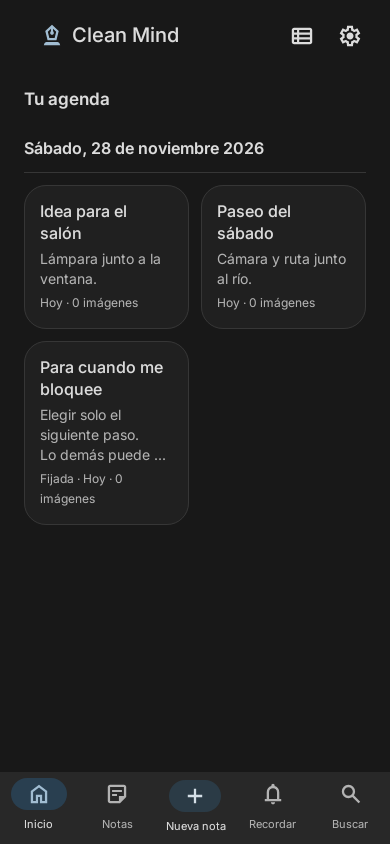
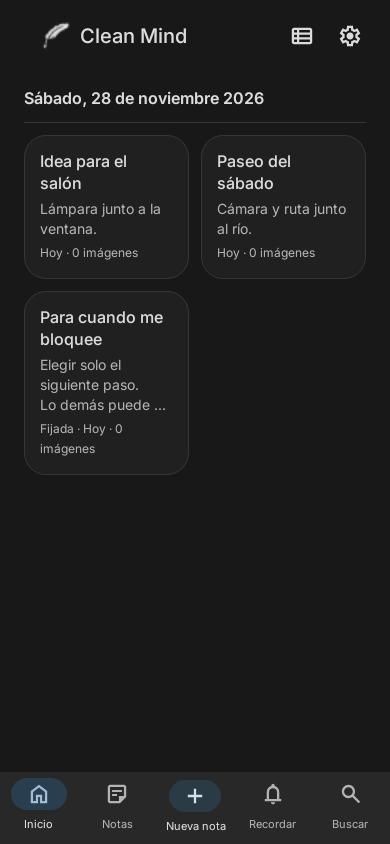
docs: document direct selection creation sheet and optimized release

Changed region(s): [[0.0615, 0.0924, 0.8615, 0.6161], [0.0923, 0.0308, 0.4923, 0.0616], [0.6462, 0.3389, 0.8, 0.3697]]

diff --git a/docs/guia-de-uso.md b/docs/guia-de-uso.md
@@ -13,19 +13,19 @@ Clean Mind permite guardar ideas y apuntes personales en Android. No necesitas u
 | Editor | Título, subtítulo opcional, cuerpo de la nota, estado de guardado y acciones. |
 | Ajustes | Selección de apariencia e información sobre almacenamiento y recordatorios. |
 
-La barra inferior fija muestra **Inicio, Notas, Nueva nota, Recordar y Buscar**. Nueva nota abre el editor directamente; Buscar enfoca el campo de consulta. La barra se oculta mientras se escribe una búsqueda y vuelve al cerrar el teclado. Durante una selección múltiple, sus acciones quedan desactivadas hasta cancelar o completar la selección. La cabecera se oculta al bajar y reaparece al llegar al inicio; el cambio de vista está junto al engranaje de Ajustes. Una pluma estilográfica acompaña al nombre Clean Mind.
+La barra inferior fija muestra **Inicio, Notas, Nueva nota, Recordar y Buscar**. Nueva nota abre una hoja con **Nueva nota** y **Nuevo recordatorio**, disponible también desde Inicio; Buscar enfoca el campo de consulta. La barra se oculta mientras se escribe una búsqueda y vuelve al cerrar el teclado. Durante una selección múltiple, sus acciones quedan desactivadas hasta cancelar o completar la selección. La cabecera se oculta al bajar y reaparece al llegar al inicio; el cambio de vista está junto al engranaje de Ajustes. La pluma del propio icono de la app acompaña al nombre Clean Mind.
 
 ## Crear una nota
 
 1. Pulsa **Nueva nota** en el centro de la barra inferior.
-2. Se abre directamente el editor.
+2. Elige **Nueva nota** en la hoja de creación.
 3. Escribe un título opcional; si lo dejas vacío, la app utiliza una primera línea legible al guardar.
 4. Añade un subtítulo opcional y el texto de la nota.
 5. Comprueba el estado de guardado en la cabecera o pulsa la flecha de volver, que guarda y cierra el editor.
 
 También puedes crear la primera nota desde el botón del estado vacío.
 
-El editor guarda después de aproximadamente 600 ms sin nuevos cambios. Si vuelves con cambios válidos pendientes, intenta guardarlos antes de cerrar. La barra de formato muestra directamente negrita, cursiva, subrayado y listas; **Más formato y espaciado** abre el panel completo del editor normal.
+El editor guarda después de aproximadamente 600 ms sin nuevos cambios. Si vuelves con cambios válidos pendientes, intenta guardarlos antes de cerrar. La barra de formato muestra directamente Deshacer, Rehacer, negrita, cursiva, subrayado y listas; **Más formato y espaciado** abre el panel completo del editor normal.
 
 ## Entender el guardado
 
@@ -45,7 +45,7 @@ No uses el borrador temporal como sustituto del guardado: antes de cerrar o forz
 
 En Inicio las tarjetas se agrupan por día de creación, con un separador horizontal y la fecha completa. No hay círculos ni etiquetas de día independientes. Muestran título, subtítulo si se ha escrito y conteo de imágenes; no muestran el cuerpo. La fecha de cada grupo no cambia al editar una nota. Las notas antiguas utilizan su fecha ya almacenada como referencia porque no hay un historial de creación. Las notas antiguas no obtienen un subtítulo a partir del contenido: puedes escribirlo en el editor.
 
-Mantén pulsada una tarjeta para abrir las opciones **Compartir nota** (texto o PDF) y **Eliminar**. Eliminar sigue solicitando confirmación. La pulsación normal abre la nota. El menú también ofrece **Seleccionar** para iniciar una selección múltiple.
+Mantén pulsada una tarjeta para seleccionarla inmediatamente. Toca otras tarjetas para añadirlas o retirarlas de la selección. Con una sola seleccionada, **Más acciones de selección** ofrece **Compartir nota**, **Mover a carpeta** y fijar/desfijar. La pulsación normal fuera de la selección abre la nota.
 
 Toca una tarjeta para abrir su contenido. Los cambios se guardan en la misma nota, manteniendo su identificador. Las colecciones conservan la fecha de última escritura para su orden habitual. La agenda de Inicio utiliza la fecha de creación independiente.
 
@@ -55,13 +55,13 @@ La elección de vista pertenece al estado de cada pestaña. No hay un ajuste glo
 
 ## Crear un recordatorio
 
-1. Abre **Recordar** y pulsa el **+** de la cabecera de la colección (**Nuevo recordatorio**).
+1. Desde Inicio, pulsa **Nueva nota → Nuevo recordatorio** en la barra inferior. También puedes abrir **Recordar** y pulsar el **+** de su cabecera.
 2. Escribe **¿Qué quieres recordar?**.
 3. Activa **Avisarme** y elige la fecha y la hora, o desactívalo para guardar un pendiente sin notificación.
 4. Añade un detalle opcional y pulsa **Guardar recordatorio**.
 5. Consúltalo desde **Recordar**.
 
-Los recordatorios independientes usan un formulario de tarea, sin herramientas de formato, fotografías ni archivo de notas. Se guardan al pulsar el botón; si vuelves con cambios pendientes, la app pide confirmar si quieres descartarlos. La lista muestra una casilla para completar, el título y la hora. El reloj permite posponer y la pulsación larga abre las opciones, incluida selección y eliminación. No aparecen como tarjetas en la agenda de Inicio.
+Los recordatorios independientes usan un formulario de tarea, sin herramientas de formato, fotografías ni archivo de notas. Se guardan al pulsar el botón; si vuelves con cambios pendientes, la app pide confirmar si quieres descartarlos. La lista muestra una casilla para completar, el título y la hora. El reloj permite posponer y la pulsación larga inicia la selección para compartir o eliminar. No aparecen como tarjetas en la agenda de Inicio.
 
 **Repetición y opciones de aviso** permite configurar el mensaje, repetición (una vez o cada 1–365 minutos, horas, días, semanas o meses), sonido, vibración, prioridad y minutos de posposición. Puedes elegir el tono desde **Personalizar tono en Android**; Android controla los canales y puede silenciarlos.
 
@@ -73,7 +73,7 @@ Pulsa la notificación para abrir su nota o **Posponer** (duración configurable
 
 ## Organizar en carpetas
 
-En **Notas** las carpetas aparecen en cuadrícula. El icono de carpeta con **+** abre **Gestionar carpetas**, donde puedes crearlas o renombrarlas. Selecciona una para consultar sus notas; el botón **Nueva nota** de la barra inferior utiliza esa carpeta. La pulsación larga de una nota ofrece **Mover a carpeta**. **Sin carpeta** reúne las notas sin asignación. Eliminar una carpeta conserva sus notas. Notas no muestra una barra de búsqueda; utiliza la pestaña **Buscar**. Estas carpetas son independientes del directorio de copias TXT de Ajustes. Consulta [Carpetas](carpetas.md).
+En **Notas** las carpetas aparecen en cuadrícula. El icono de carpeta con **+** abre **Gestionar carpetas**, donde puedes crearlas o renombrarlas. Selecciona una para consultar sus notas; el botón **Nueva nota** de la barra inferior utiliza esa carpeta. Mantén pulsada una nota y abre **Más acciones de selección → Mover a carpeta**. **Sin carpeta** reúne las notas sin asignación. Eliminar una carpeta conserva sus notas. Notas no muestra una barra de búsqueda; utiliza la pestaña **Buscar**. Estas carpetas son independientes del directorio de copias TXT de Ajustes. Consulta [Carpetas](carpetas.md).
 
 ## Buscar
 
@@ -89,13 +89,13 @@ El botón de borrar vacía la consulta. Si no hay resultados, prueba con un frag
 
 ## Eliminar
 
-Mantén pulsada una tarjeta o un recordatorio y elige **Eliminar**. Para borrar varios, elige **Seleccionar** y toca los demás elementos. La barra muestra el total y ofrece **Seleccionar visibles**, **Eliminar seleccionados** y cancelar. El filtro actual limita qué añade Seleccionar visibles. Confirma **Eliminar selección** en el diálogo; cancelar no borra nada. Un error mantiene la selección para reintentar y los controles se bloquean mientras se completa la operación. Borrar recordatorios cancela sus notificaciones programadas.
+Mantén pulsada una tarjeta o un recordatorio para seleccionarlo y toca los demás elementos que quieras añadir. La barra muestra el total y ofrece **Seleccionar visibles**, **Eliminar seleccionados** y cancelar. El filtro actual limita qué añade Seleccionar visibles. Confirma **Eliminar selección** en el diálogo; cancelar no borra nada. Un error mantiene la selección para reintentar y los controles se bloquean mientras se completa la operación. Borrar recordatorios cancela sus notificaciones programadas.
 
 La eliminación es permanente en la base de datos de la app: no hay papelera ni función de deshacer. Si falla, se muestra un mensaje y la nota sigue disponible para volver a intentarlo.
 
 ## Compartir
 
-En el editor, abre **Más opciones → Compartir**. Android permite elegir la aplicación receptora.
+En el editor, pulsa **Compartir** en la cabecera. También puedes mantener pulsada una nota en una colección y abrir **Más acciones de selección → Compartir nota**. Android permite elegir la aplicación receptora.
 
 La hoja **Comparte tu nota** muestra una vista previa y permite elegir **Texto** o **PDF**. La acción principal cambia a **Compartir texto** o **Compartir PDF**. Texto envía directamente título, subtítulo y cuerpo, sin adjuntos, para pegarlo fácilmente en otras aplicaciones. PDF envía el documento con formatos básicos, páginas e imágenes, concediendo acceso temporal al archivo.
 

diff --git a/docs/pruebas.md b/docs/pruebas.md
@@ -35,14 +35,14 @@ Los filtros mostrados corresponden a las clases presentes en el repositorio.
 | Clase | Casos | Comportamiento comprobado |
 | --- | --- | --- |
 | `EditNoteViewModelTest` | 14 | Autoguardados sobre la misma fila, salida inmediata, escritura lenta, fallos y reintento, guardado explícito de recordatorios, salida repetida, reversión del texto, título vacío, borrador restaurado, texto literal `Remember` y fallo de carga; creación de una nota en la carpeta seleccionada y nota de solo archivo, incluida retirada de su último adjunto. |
-| `NotesViewModelTest` | 11 | Filtros y búsqueda, reintento de carga, error de eliminación, detención de observación sin suscriptores y restauración de consulta/pestaña/carpeta, creación de carpetas, fallo/reintento de movimientos y borrado múltiple con error, reintento y bloqueo de envíos duplicados; acceso a notas antiguas archivadas sin reescritura. |
+| `NotesViewModelTest` | 12 | Filtros y búsqueda, reintento de carga, error de eliminación, detención de observación sin suscriptores y restauración de consulta/pestaña/carpeta, creación de carpetas, fallo/reintento de movimientos y borrado múltiple con error, reintento y bloqueo de envíos duplicados; acceso a notas antiguas archivadas sin reescritura y renovación de búsqueda/metadatos en copias editadas. |
 | `SettingsViewModelTest` | 1 | Conservación del tema persistido cuando falla una escritura y recuperación al reintentar. |
 | `NoteStorageTest` | 6 | Migración 2→4 con SQLite y operaciones de repositorio con IDs estables y orden de consulta; rollback entre bloques de borrado y cancelación de avisos seleccionados. |
 | `FolderStorageTest` | 3 | Migración 3→4 conservando todos los campos; creación/renombrado/borrado, movimientos y guardados obsoletos, duplicados con acentos, carpetas desaparecidas y separación de recordatorios. |
 | `SampleNoteCollectionTest` | 3 | Seis estrofas breves, importación repetida y reintento parcial sin duplicar, conservación de notas/metadatos y reutilización de carpetas existentes. |
 | `UserPreferencesRepositoryTest` | 2 | Migración del tema anterior a DataStore y conservación de una nueva selección al reabrir y creación/eliminación persistente de temas propios. |
 | `DestinationTest` | 1 | Serialización y deserialización de destinos con argumentos tipados. |
-| `DateUtilsTest` | 2 | Agrupación de fechas de años distintos y detección de hoy/ayer. |
+| `DateUtilsTest` | 3 | Agrupación de fechas de años distintos, detección de hoy/ayer y reutilización de formatos por hilo con cambio de idioma/zona horaria. |
 | `RichEditorTest` | 13 | Compatibilidad con texto antiguo, serialización, reapertura con negrita, deshacer/rehacer, limpieza parcial, listas, casillas, espaciado, color con selección conservada y estado de la barra y continuación/salida de listas con Intro, subtítulos y conservación de metadatos al deshacer y disponibilidad del campo nativo para accesibilidad y conservación del Editable/composición IME al cambiar metadatos. |
 | `MarkdownCompatibilityTest` | 5 | Documentos normales sin cambios, lectura de documentos Markdown como texto con formato conservando metadatos y destinos de enlaces, estilos/tablas/tareas anteriores, HTML literal y texto legible para buscar/compartir. |
 | `VoiceDictationTest` | 2 | Intent de reconocimiento, resultados cancelados/vacíos, inserción en selección y deshacer conservando adjuntos. |
@@ -52,7 +52,7 @@ Los filtros mostrados corresponden a las clases presentes en el repositorio.
 | `ReminderExportTest` | 5 | Repetición y serialización, programación/recuperación/cancelación de alarmas, TXT UTF-8 y paginación visual de exportación. |
 | `DesignUiTest` | 23 | Capturas locales, privacidad de previews, compartir con pulsación larga, búsqueda/cuadrícula, herramientas inferiores del editor, completado, ajustes, selección de fecha/hora y formulario independiente con confirmación al descartar y filtrado/movimiento de notas entre carpetas y exclusión de Volver en destinos ocultos, carpetas en cuadrícula y ausencia de búsqueda en Notas y botones del editor sin palabras partidas ni truncadas a 320 dp con fuente 1.35; ocultación al descender, permanencia oculta al invertir el scroll a mitad de la lista y reapertura al llegar al inicio, conservando los límites del contenido fuera de las barras; aplicación de una paleta y borrado múltiple confirmado en Home y recordatorios sin completar avisos; navegación inferior de cinco acciones, creación contextual de avisos y ubicación del dictado, manteniendo Lista y retirando las casillas del formato. |
 
-Total actual: **98 pruebas locales**, de las cuales una es el ejemplo aritmético original. Esta cifra describe la suite actual y debe revisarse al añadir o retirar casos; no es un porcentaje de cobertura de código.
+Total actual: **100 pruebas locales**, de las cuales una es el ejemplo aritmético original. Esta cifra describe la suite actual y debe revisarse al añadir o retirar casos; no es un porcentaje de cobertura de código.
 
 Las pruebas de ViewModel usan `kotlinx-coroutines-test` para controlar la ejecución y el tiempo virtual. `FakeNoteRepository` permite simular lentitud, errores y cambios observables.
 
@@ -71,7 +71,7 @@ Las carpetas `build/` contienen salidas generadas. No forman parte de la documen
 
 ## Estado conocido
 
-La validación de la revisión de «To Dos» se documenta al final de esta página. Lint conserva avisos sobre versiones de dependencias y recursos.
+Las revisiones y comprobaciones físicas se documentan al final de esta página. Lint conserva avisos sobre versiones de dependencias y recursos.
 
 La comprobación de formato de Android Studio usa el estilo compartido; la revisión del 28 de noviembre abarca 108 archivos.
 
@@ -245,3 +245,11 @@ Los accesos y la referencia oficial están en [Barras, Home y editor](barras-y-e
 
 
 En el Xiaomi Redmi Note 8 Pro, API 36, conectado en esta revisión, se instalaron los cambios y se verificaron navegación, editor, listas, panel de formato, búsqueda, scroll, cambio de vista y ambos modos de apariencia. **Dos pruebas instrumentadas superadas**, incluida la del portapapeles nativo. Tras retirar la nota de prueba y su copia TXT, la comparación conserva idénticos los campos de las 9 notas y las 2 carpetas originales; DataStore y las preferencias de avisos coinciden con la copia inicial. El teléfono queda en Home y sin APK de pruebas, sin crashes del paquete en el buffer conservado. No se realizó una nueva prueba física en el realme en esta revisión.
+
+## Revisión: selección directa, creación desde Inicio y limpieza · 28 de noviembre de 2026
+
+Las **100 pruebas locales** pasaron sin fallos ni omisiones. Debug y release compilaron y completaron lint sin errores; permanecen recomendaciones de dependencias/API/KTX. Las regresiones comprueban selección inmediata sin diálogo intermedio, creación de ambos tipos desde la hoja, ausencia de «Tu agenda», compartir directo, Deshacer/Rehacer y dos inserciones de Lista sin perder el cuerpo. Se añadieron comprobaciones de copias editadas tras inicializar la búsqueda y de formateadores concurrentes con cambios de idioma y zona horaria.
+
+La variante release activa R8 y reducción de recursos. Se instaló en el Xiaomi Redmi Note 8 Pro, Android API 36, firmada con la clave local de desarrollo solo para la prueba; no se configura una firma de distribución. Se verificaron lectura de notas anteriores, selección con pulsación larga y segundo toque, la hoja Crear desde Inicio y el guardado de una nota y un recordatorio independiente. En el editor se comprobaron Deshacer/Rehacer, dos casillas persistentes, el panel con H6, ausencia del menú global duplicado y acceso directo a Compartir. El PDF generado abrió el selector de Android; se canceló sin enviar. El archivo resultó válido y su título y cuerpo fueron extraíbles, aunque la extracción de la ligadura «fi» no fue fiel; esta revisión no certifica una extracción Unicode completa del PDF nativo.
+
+Se reinstaló debug, se verificó la serialización real en Room y se eliminaron la nota y el recordatorio de prueba mediante selección múltiple y confirmación desde Buscar. Las **dos pruebas instrumentadas** pasaron, incluida imagen pegada desde el portapapeles real, con restauración del portapapeles y eliminación de su archivo. No se incorporó contenido del dispositivo a las capturas publicadas. Al terminar se compararon todos los campos de las **10 notas originales** y las **2 carpetas**, las preferencias de apariencia, la carpeta de exportación y la programación de avisos: permanecieron idénticos. Se eliminaron los dos TXT y el PDF temporales, se retiraron las copias privadas de verificación y no hubo crashes del paquete. El dispositivo quedó en Inicio, modo agenda y con la preferencia de apariencia original.

diff --git a/docs/barras-y-editor.md b/docs/barras-y-editor.md
@@ -4,16 +4,20 @@ La revisión simplifica el cuaderno y utiliza la [navegación flexible de Materi
 
 ## Navegación y Home
 
-- Barra inferior acoplada al borde, con Inicio, Notas, Nueva nota, Recordar y Buscar. Los cuatro destinos muestran su selección; Nueva nota es una acción y abre el editor directamente.
+- Barra inferior acoplada al borde, con Inicio, Notas, Nueva nota, Recordar y Buscar. Los cuatro destinos muestran su selección; Nueva nota es una acción y abre la hoja **Crear**, con Nueva nota y Nuevo recordatorio desde cualquier pestaña, incluida Inicio.
 - Buscar enfoca el campo al entrar. La barra se oculta con el teclado de búsqueda y reaparece al cerrarlo.
-- Nuevo recordatorio queda en el **+** de la cabecera de Recordar, también cuando hay avisos en la colección.
-- La Home conserva fechas y agrupación por creación, sin barra de búsqueda. El cambio entre cuadrícula y agenda está junto a Ajustes. En Notas y Buscar, el mismo lugar cambia lista/cuadrícula.
-- Una pluma estilográfica Material Symbols acompaña a Clean Mind. Se conserva el peso 500 de los iconos.
+- Nuevo recordatorio está en la hoja Crear y en el **+** de la cabecera de Recordar, también cuando hay avisos en la colección.
+- La Home conserva fechas y agrupación por creación, sin barra de búsqueda ni título «Tu agenda». El cambio entre cuadrícula y agenda está junto a Ajustes. En Notas y Buscar, el mismo lugar cambia lista/cuadrícula.
+- La pluma de `ic_launcher_foreground`, el mismo dibujo del icono de la app, acompaña a Clean Mind. El resto conserva Material Symbols con peso 500.
 - La cabecera mantiene su comportamiento de ocultarse al descender y reaparecer al llegar al inicio. Scaffold reserva el espacio de ambas barras.
+
+La pulsación larga selecciona directamente una nota o recordatorio, sin hoja intermedia. Un toque añade o retira otros elementos. Con una sola nota seleccionada, Más acciones de selección permite compartir, mover y fijar; eliminar usa el mismo diálogo y operación transaccional para uno o varios elementos.
 
 ## Editor
 
 La fila inferior ofrece **Dictar, Lista, Imagen y Recordar**. Con teclado usa iconos compactos y con texto grande puede distribuirse en dos filas para evitar recortes.
+
+Se retira el menú global de tres puntos: Compartir está en la cabecera, Deshacer/Rehacer en la barra de formato y las inserciones en la fila inferior. El panel completo de formato y las opciones propias de cada imagen permanecen disponibles.
 
 Las casillas se crean con Lista, mantienen su edición, borrado y Deshacer. Se retiran los accesos de casilla en la fila de formato y en su panel; las viñetas, números, estilos y espaciado permanecen disponibles.
 
@@ -25,7 +29,11 @@ La paleta usa fondos carbón y blanco roto, texto gris y contornos más suaves. 
 
 ## Verificación
 
-Compilaciones debug/release, lint de ambas variantes y **98 pruebas locales** correctas, sin fallos ni omisiones. La suite conserva las regresiones del editor, casillas, metadatos, almacenamiento y selección múltiple. Incluye navegación de cinco acciones a 320 dp con texto grande, ausencia de solapamientos, búsqueda con foco, colocación de cambio de vista junto a Ajustes y acceso a notas archivadas antiguas.
+Compilaciones debug/release, lint de ambas variantes y **100 pruebas locales** correctas, sin fallos ni omisiones. La suite conserva las regresiones del editor, casillas, metadatos, almacenamiento y selección múltiple. Incluye navegación de cinco acciones a 320 dp con texto grande, ausencia de solapamientos, búsqueda con foco, colocación de cambio de vista junto a Ajustes y acceso a notas archivadas antiguas.
 
 
-La comprobación física se realizó en el Xiaomi Redmi Note 8 Pro conectado, Android API 36. Se verificaron los cinco accesos, creación contextual de aviso, cambio de vista en Home/Notas, ausencia de búsqueda en Home, dictado inferior con teclado, creación y persistencia de una casilla desde Lista, ausencia de casillas en formato y de archivo en el menú, búsqueda con foco y filtrado, navegación durante scroll y ambas apariencias. Las dos pruebas instrumentadas también pasaron. El modo previo Como el dispositivo se restauró. Se eliminó la nota temporal y su copia TXT y se compararon todos los campos de las 9 notas originales y las 2 carpetas. Las capturas del repositorio son sintéticas; las del dispositivo se mantienen fuera del repositorio.
+En la revisión anterior, la comprobación física se realizó en el Xiaomi Redmi Note 8 Pro conectado, Android API 36. Se verificaron los cinco accesos, creación contextual de aviso, cambio de vista en Home/Notas, ausencia de búsqueda en Home, dictado inferior con teclado, creación y persistencia de una casilla desde Lista, ausencia de casillas en formato y de archivo en el menú, búsqueda con foco y filtrado, navegación durante scroll y ambas apariencias. Las dos pruebas instrumentadas también pasaron. El modo previo Como el dispositivo se restauró. Se eliminó la nota temporal y su copia TXT y se compararon todos los campos de las 9 notas originales y las 2 carpetas. Las capturas del repositorio son sintéticas; las del dispositivo se mantienen fuera del repositorio.
+
+Las capturas actuales de [Inicio](ui-preview/home-dark.png), [selección](ui-preview/selection-home-dark.png), [creación](ui-preview/creation-sheet-dark.png) y [editor](ui-preview/editor-dark.png) se generan con datos sintéticos de Robolectric.
+
+La revisión actual añade validación de la variante release optimizada en el Xiaomi y repite las dos pruebas instrumentadas. Tras retirar los elementos temporales, las 10 notas originales, las 2 carpetas y las preferencias permanecen idénticas. El detalle está en [Pruebas](pruebas.md).

diff --git a/docs/arquitectura.md b/docs/arquitectura.md
@@ -71,7 +71,7 @@ com/example/cleannotes/
 | `MainActivity` | Instalar la splash nativa, activar edge-to-edge e instalar `NotesApp`. |
 | `NotesApplication` | Punto de entrada de Hilt. |
 | `NotesApp` | Aplicar el tema, gestionar el back stack, obtener ViewModels y conectar estado y callbacks. |
-| `NotesViewModel` | Observar notas/carpetas, derivar colecciones y búsqueda, conservar consulta/pestaña/carpeta y gestionar mutaciones y errores. |
+| `NotesViewModel` | Observar notas/carpetas, conservar consulta/pestaña/carpeta y gestionar mutaciones y errores. |
 | `EditNoteViewModel` | Cargar una nota, mantener el borrador, coordinar autoguardado y solicitar la salida mediante estado. |
 | `SettingsViewModel` | Observar la apariencia y gestionar fallos de lectura o escritura. |
 | Pantallas Compose | Representar estado, controlar interacciones visuales locales y emitir callbacks. |
@@ -89,7 +89,7 @@ Los ViewModels exponen valores inmutables a través de `StateFlow`:
 
 | Estado | Datos principales |
 | --- | --- |
-| `NotesUiState` | Colección completa, notas, recordatorios, resultados, consulta, pestaña, carga y error. |
+| `NotesUiState` | Colección completa, carpetas, consulta, pestaña, carpeta seleccionada, carga, errores y operaciones. |
 | `EditNoteUiState` | Título, contenido, tipo, guardado, carga, cierre, cambios y solicitud de salida. |
 | `SettingsUiState` | Tema, carga y presencia de error. |
 
@@ -173,7 +173,7 @@ El cuerpo del editor integra `RichNoteEditor`, un EditText nativo dentro de Comp
 
 `NoteExport` encapsula TXT UTF-8, PDF A4 con saltos de página e imágenes, archivos compartidos en caché y escritura mediante DocumentsContract. El permiso persistente SAF limita el acceso a la carpeta elegida; no se solicitan permisos generales de almacenamiento. `ExportMenu` realiza IO en background. Room sigue siendo la fuente de verdad; las copias TXT no restauran formatos ni adjuntos.
 
-La agenda de Inicio se presenta con `HomeAgenda`, agrupando por `Note.creationTimestamp()`. El repositorio conserva la creación dentro del documento independientemente del timestamp de edición. `CustomTopBar` conserva `exitUntilCollapsed` y `NotebookFab` concentra la navegación y creación. `HomeAgenda` mantiene estados independientes para la cuadrícula y la agenda vertical. Ajustes expone de nuevo apariencia y almacenamiento directamente.
+La agenda de Inicio se presenta con `HomeAgenda`, agrupando por `Note.creationTimestamp()`. El repositorio conserva la creación dentro del documento independientemente del timestamp de edición. `CustomTopBar` se oculta al descender y solo reaparece al llegar al inicio; `NotebookBottomBar` concentra la navegación y abre `NoteCreationSheet` para crear notas o recordatorios. `HomeAgenda` mantiene estados independientes para la cuadrícula y la agenda vertical. Ajustes expone de nuevo apariencia y almacenamiento directamente.
 
 ## Recordatorios como tareas
 
@@ -212,3 +212,11 @@ El efecto de pulsación de `DesignNoteCard` se dibuja dentro de Surface, que rec
 La fila inferior incorpora Dictar, Lista, Imagen y Recordar; con IME abierto usa iconos compactos y con fuente grande permite dos filas. El menú de formato mantiene estilos, viñetas, números y espaciado, sin insertar casillas. El editor ya no conserva un modo de concentración ni expone acciones de archivo.
 
 `NoteDocument.archived` permanece únicamente por compatibilidad de serialización e historial. Las colecciones no lo utilizan para ocultar notas y no se reescriben documentos al retirar la función. `visibleNotes` sigue siendo la proyección compartida entre tarjetas y selección múltiple.
+
+## Limpieza y trabajo reutilizado
+
+`visibleNotes` es la única proyección de filtros y búsqueda; `NotebookScreen` la memoriza por colección, pestaña, carpeta, consulta y filtro. Esa misma colección alimenta las tarjetas y Seleccionar visibles. Los conteos por carpeta, los IDs seleccionados y la ordenación de recordatorios se calculan al cambiar sus entradas. `NotesUiState` evita almacenar tres listas derivadas que repetían este trabajo.
+
+Cada instancia inmutable de `Note` decodifica su `document` y obtiene su `searchableText` de forma perezosa. Una copia editada crea sus propias cachés; no se guardan en Room ni forman parte de igualdad o serialización. La búsqueda conserva compatibilidad con documentos Markdown y nombres de adjuntos. Los formateadores de fecha se reutilizan por hilo y se renuevan al cambiar idioma o zona horaria.
+
+El borrado individual y múltiple comparten `deleteNotes`, con transacción del DAO y retirada de metadatos de alarmas en un solo commit por lote, en IO. Los iconos vectoriales generados solo contienen los símbolos utilizados. Los campos antiguos de archivo, Markdown, alineación y color se mantienen para leer instalaciones anteriores.

diff --git a/design/README.md b/design/README.md
@@ -10,7 +10,7 @@ Para regenerar, descarga el TTF y los codepoints oficiales y ejecuta `scripts/up
 
 ## Marca monocroma y arranque
 
-`branding/clean-mind-monochrome.svg` es la versión monocroma editable. La pluma conserva la silueta original en blanco sobre gris carbón; los originales de color se guardan únicamente como referencia histórica. El launcher usa vectores adaptativos y una máscara monocroma para iconos temáticos, con un fallback vectorial desde API 24. La imagen de tienda también se ha regenerado desde el vector.
+`branding/clean-mind-monochrome.svg` es la versión monocroma editable. La pluma conserva la silueta original en blanco sobre gris carbón; los originales de color se guardan únicamente como referencia histórica. El launcher usa vectores adaptativos y una máscara monocroma para iconos temáticos, con un fallback vectorial desde API 24. La imagen de tienda también se ha regenerado desde el vector. `CustomTopBar` reutiliza `ic_launcher_foreground` como pluma monocroma junto al nombre, sin sustituirla por un símbolo de biblioteca.
 
 `ic_splash_mark.xml` muestra la pluma sin recuadro, en el color de texto del tema del sistema. `Theme.CleanMind.Starting` utiliza AndroidX SplashScreen 1.2.0 y vuelve a `Theme.CleanMind` al dibujar el contenido. Solo espera la lectura real de preferencias; no añade un temporizador de permanencia. La salida dura 180 ms y se omite cuando Android tiene los animadores desactivados.
 

diff --git a/docs/carpetas.md b/docs/carpetas.md
@@ -4,7 +4,7 @@ En **Notas → Carpetas → Gestionar** puedes crear, renombrar y eliminar carpe
 
 Las carpetas aparecen en una cuadrícula adaptable, con nombre y conteo de notas. Selecciona una para ver sus notas. **Todas las notas** reúne el cuaderno y **Sin carpeta** muestra las notas sin asignación. Los filtros de archivo, fijado e imágenes se combinan con la carpeta seleccionada. La pantalla Notas no tiene barra de búsqueda; la pestaña Buscar sigue consultando todo el cuaderno.
 
-Mantén pulsada una nota en Inicio o Notas y pulsa **Mover a carpeta**. Puedes elegir otra carpeta o **Sin carpeta**. Crear una nota desde el botón central mientras estás en una carpeta la guarda directamente allí. Los recordatorios independientes continúan separados de las carpetas.
+Mantén pulsada una nota en Inicio o Notas y abre **Más acciones de selección → Mover a carpeta**. Puedes elegir otra carpeta o **Sin carpeta**. Crear una nota desde el botón central mientras estás en una carpeta la guarda directamente allí. Los recordatorios independientes continúan separados de las carpetas.
 
 Eliminar una carpeta solicita confirmación y conserva todas sus notas en **Sin carpeta**. Mover una nota no cambia su contenido, su ID ni sus fechas. Una edición abierta anteriormente no revierte un movimiento posterior.
 

diff --git a/docs/figma-ui.md b/docs/figma-ui.md
@@ -62,7 +62,7 @@ El recuento actualizado de la suite está en [Pruebas](pruebas.md). Además de l
 
 ## Ajustes solicitados el 24 de noviembre
 
-Home deja de utilizar las secciones «A mano» y «Recientes» de Figma y recupera la agenda anterior. Las barras y Ajustes también se restauran por petición expresa del usuario; estas diferencias visuales son intencionadas. La pulsación larga sigue dando acceso a compartir, fijar, archivar y eliminar.
+Home deja de utilizar las secciones «A mano» y «Recientes» de Figma y recupera la agenda anterior. Las barras y Ajustes también se restauran por petición expresa del usuario; estas diferencias visuales son intencionadas. La pulsación larga inicia selección; con un elemento seleccionado, el menú contextual permite compartir, mover y fijar. Archivo se retiró en una revisión posterior.
 
 La agenda agrupa por `NoteDocument.createdAt`, no por la última edición. El repositorio fija ese valor al crear una nota y lo conserva al guardarla de nuevo, incluso si el borrador omite el campo. Las notas anteriores no tienen historial de creación: se utiliza su timestamp ya almacenado como referencia y se fija en la primera actualización. No se inventa una fecha histórica ni se modifica el esquema Room.
 

diff --git a/docs/desarrollo.md b/docs/desarrollo.md
@@ -62,7 +62,7 @@ Estos comandos no instalan ni abren la aplicación en un teléfono o emulador. C
 | `:app:assembleRelease` | APK release en `app/build/outputs/apk/release/` |
 | `:app:bundleRelease` | AAB en `app/build/outputs/bundle/release/` |
 
-No existe una configuración de firma release en el módulo. Generar un artefacto no implica que esté preparado para publicarse. La variante release tiene desactivada la minificación.
+No existe una configuración de firma release en el módulo. Generar un artefacto no implica que esté preparado para publicarse. La variante release activa R8 y reducción de recursos con las reglas optimizadas de Android. Las bibliotecas aportan sus reglas de consumidor; evita reglas globales que impidan la optimización. Comprueba también el APK optimizado en un dispositivo antes de distribuirlo. Referencia: [optimización de aplicaciones Android](https://developer.android.com/topic/performance/app-optimization/enable-app-optimization).
 
 ## Dependencias
 

diff --git a/README.md b/README.md
@@ -12,7 +12,7 @@ La interfaz está construida con Jetpack Compose y Material 3. La arquitectura u
 - Guardar automáticamente mientras escribes y mostrar el estado de guardado.
 - Eliminar casillas y recuperarlas con Deshacer; herramientas visibles y un panel único de formato.
 - Consultar la actividad por fecha o cambiar a una cuadrícula adaptable.
-- Navegar con la barra inferior Inicio, Notas, Nueva nota, Recordar y Buscar; búsqueda con foco directo y cambio de vista junto a Ajustes.
+- Navegar con la barra inferior Inicio, Notas, Nueva nota, Recordar y Buscar; búsqueda con foco directo, cambio de vista junto a Ajustes y hoja de creación de notas y recordatorios accesible desde Inicio.
 - Organizar notas en [carpetas](docs/carpetas.md) en cuadrícula, con creación, renombrado y movimiento.
 - Crear recordatorios con formulario propio de tarea, fecha y hora y guardado explícito.
 - Compartir texto mediante el selector de aplicaciones de Android.

diff --git a/docs/datos-y-migraciones.md b/docs/datos-y-migraciones.md
@@ -170,3 +170,5 @@ El borrado múltiple divide los IDs en bloques de 900 dentro de una sola transac
 
 
 La revisión posterior de barras y editor retira el archivo de la interfaz. `archived` sigue leyéndose para conservar los documentos anteriores, pero deja de filtrar las colecciones. No requiere migración ni modificación de filas existentes.
+
+Las propiedades derivadas `Note.document` y `Note.searchableText` son cachés por instancia inmutable para lectura y búsqueda. No son columnas de Room ni campos del documento, y no cambian el esquema 4. Copiar una nota editada inicia nuevas cachés.
